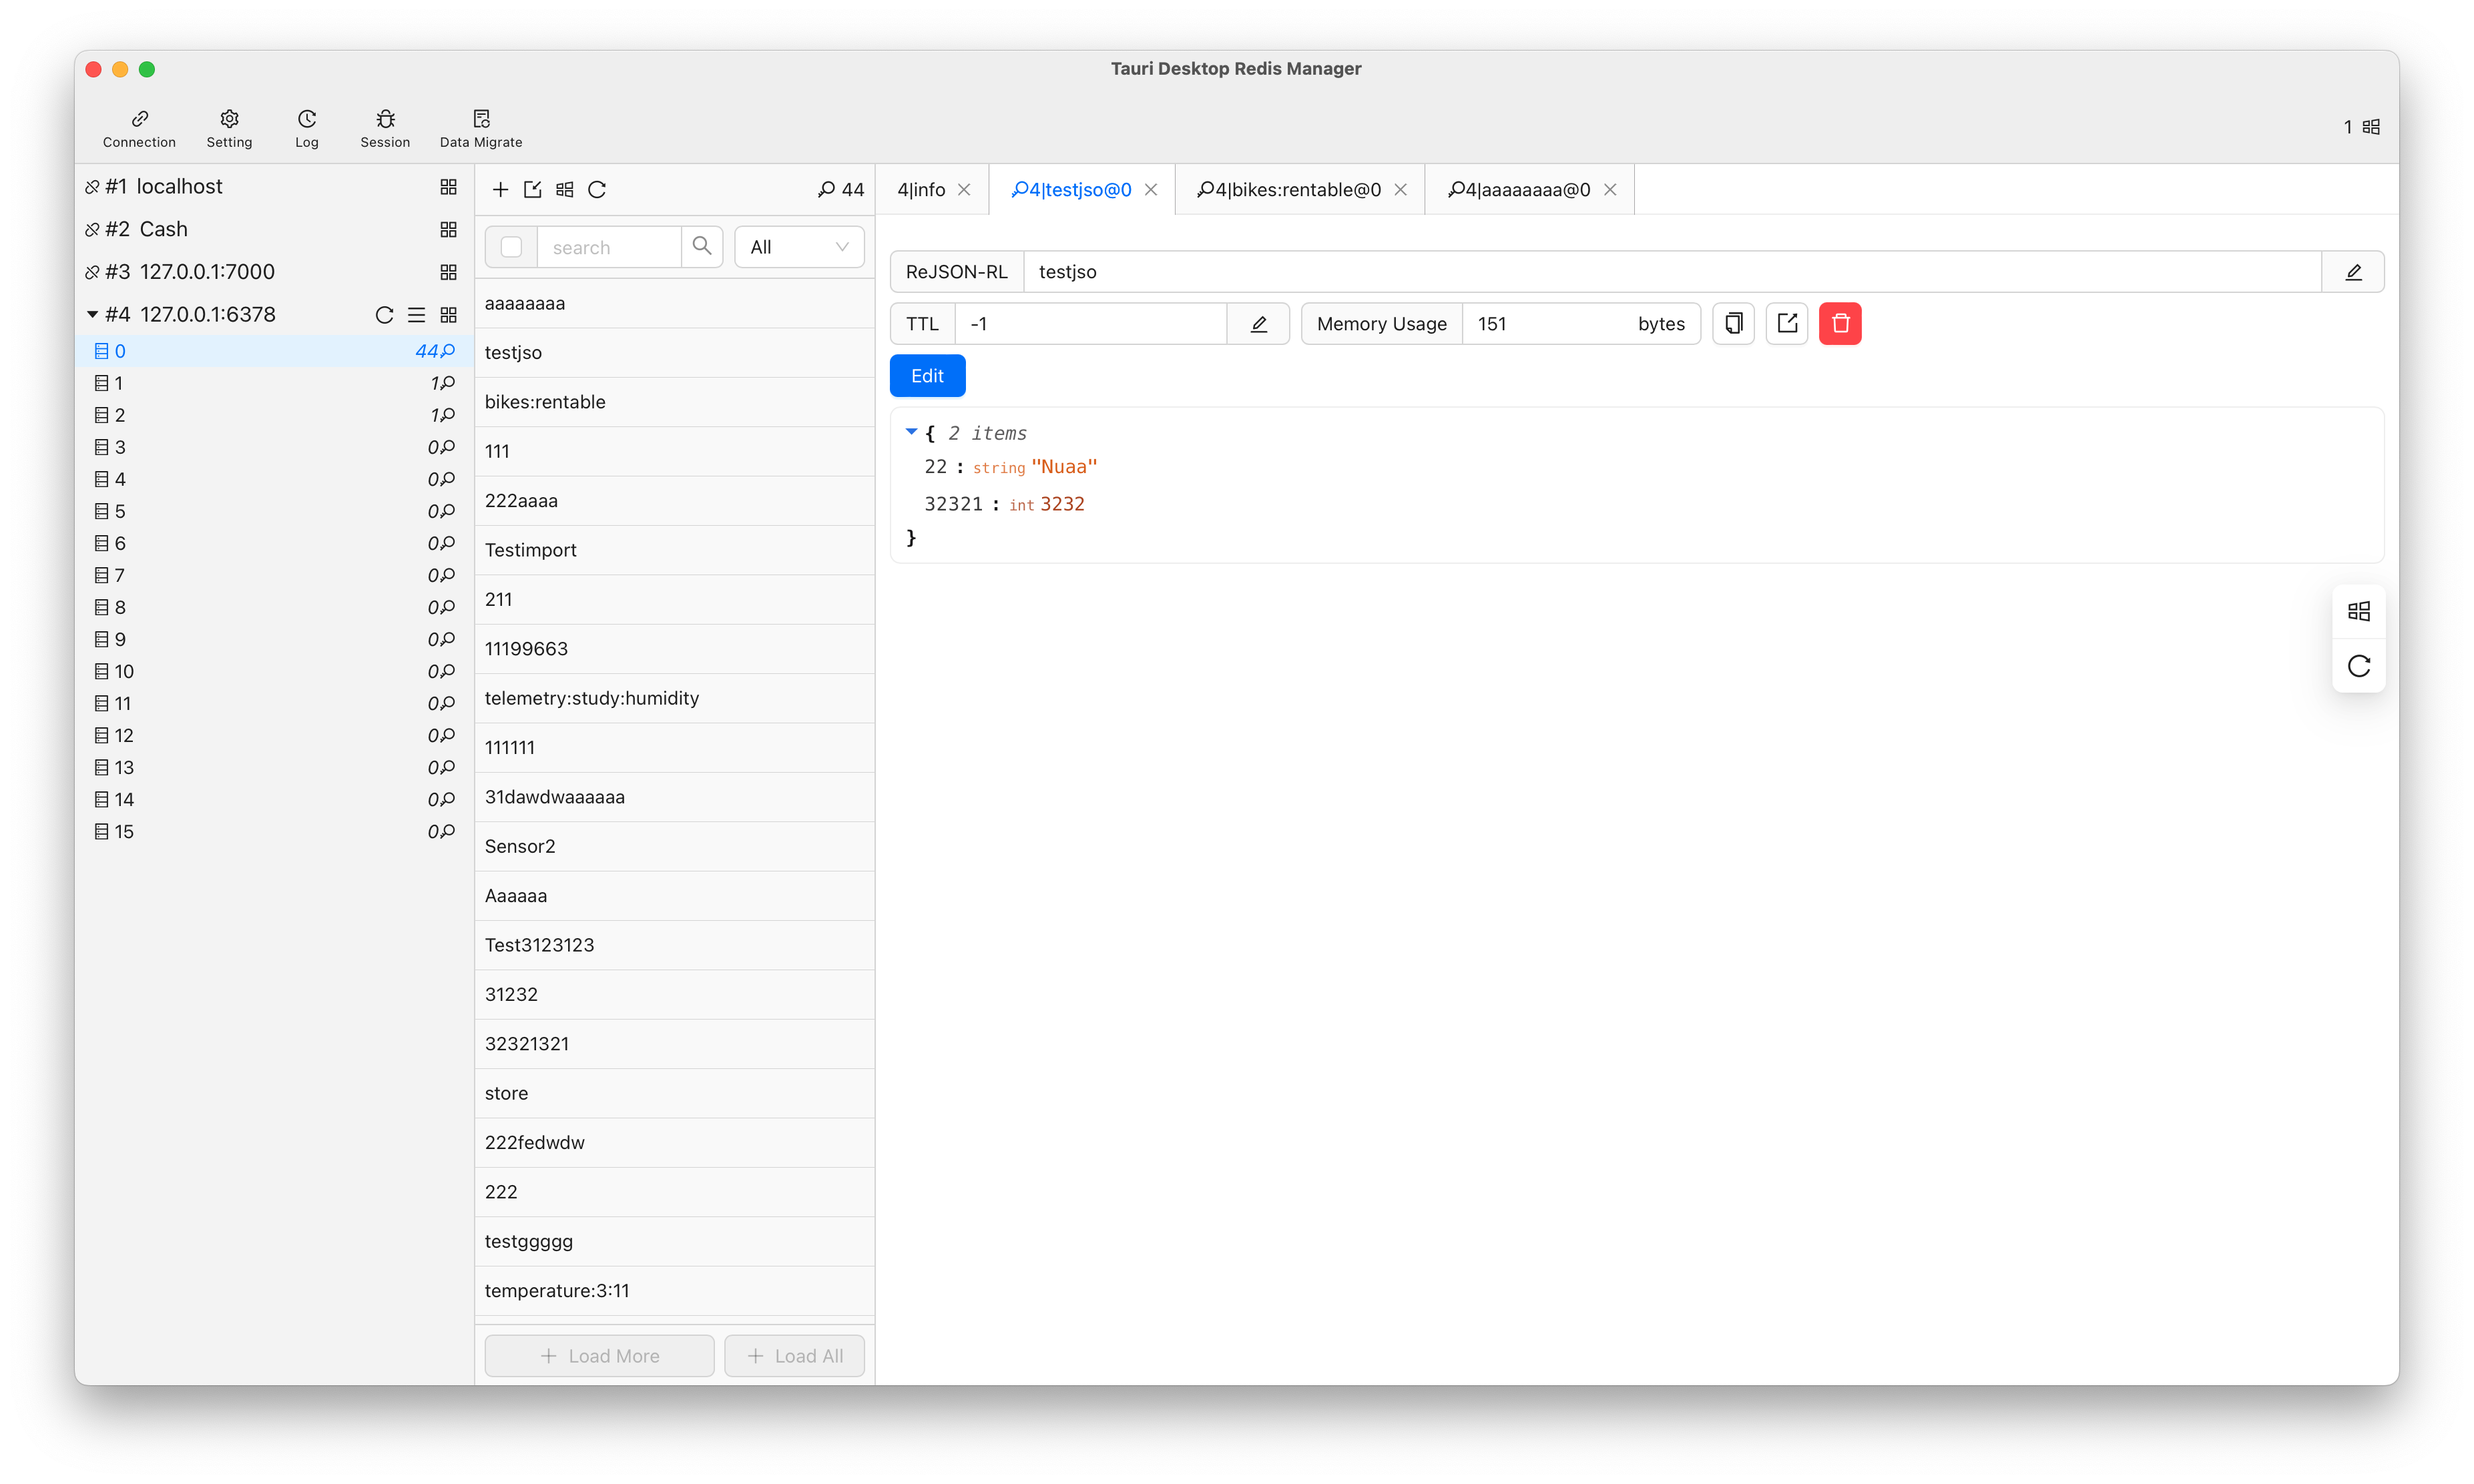
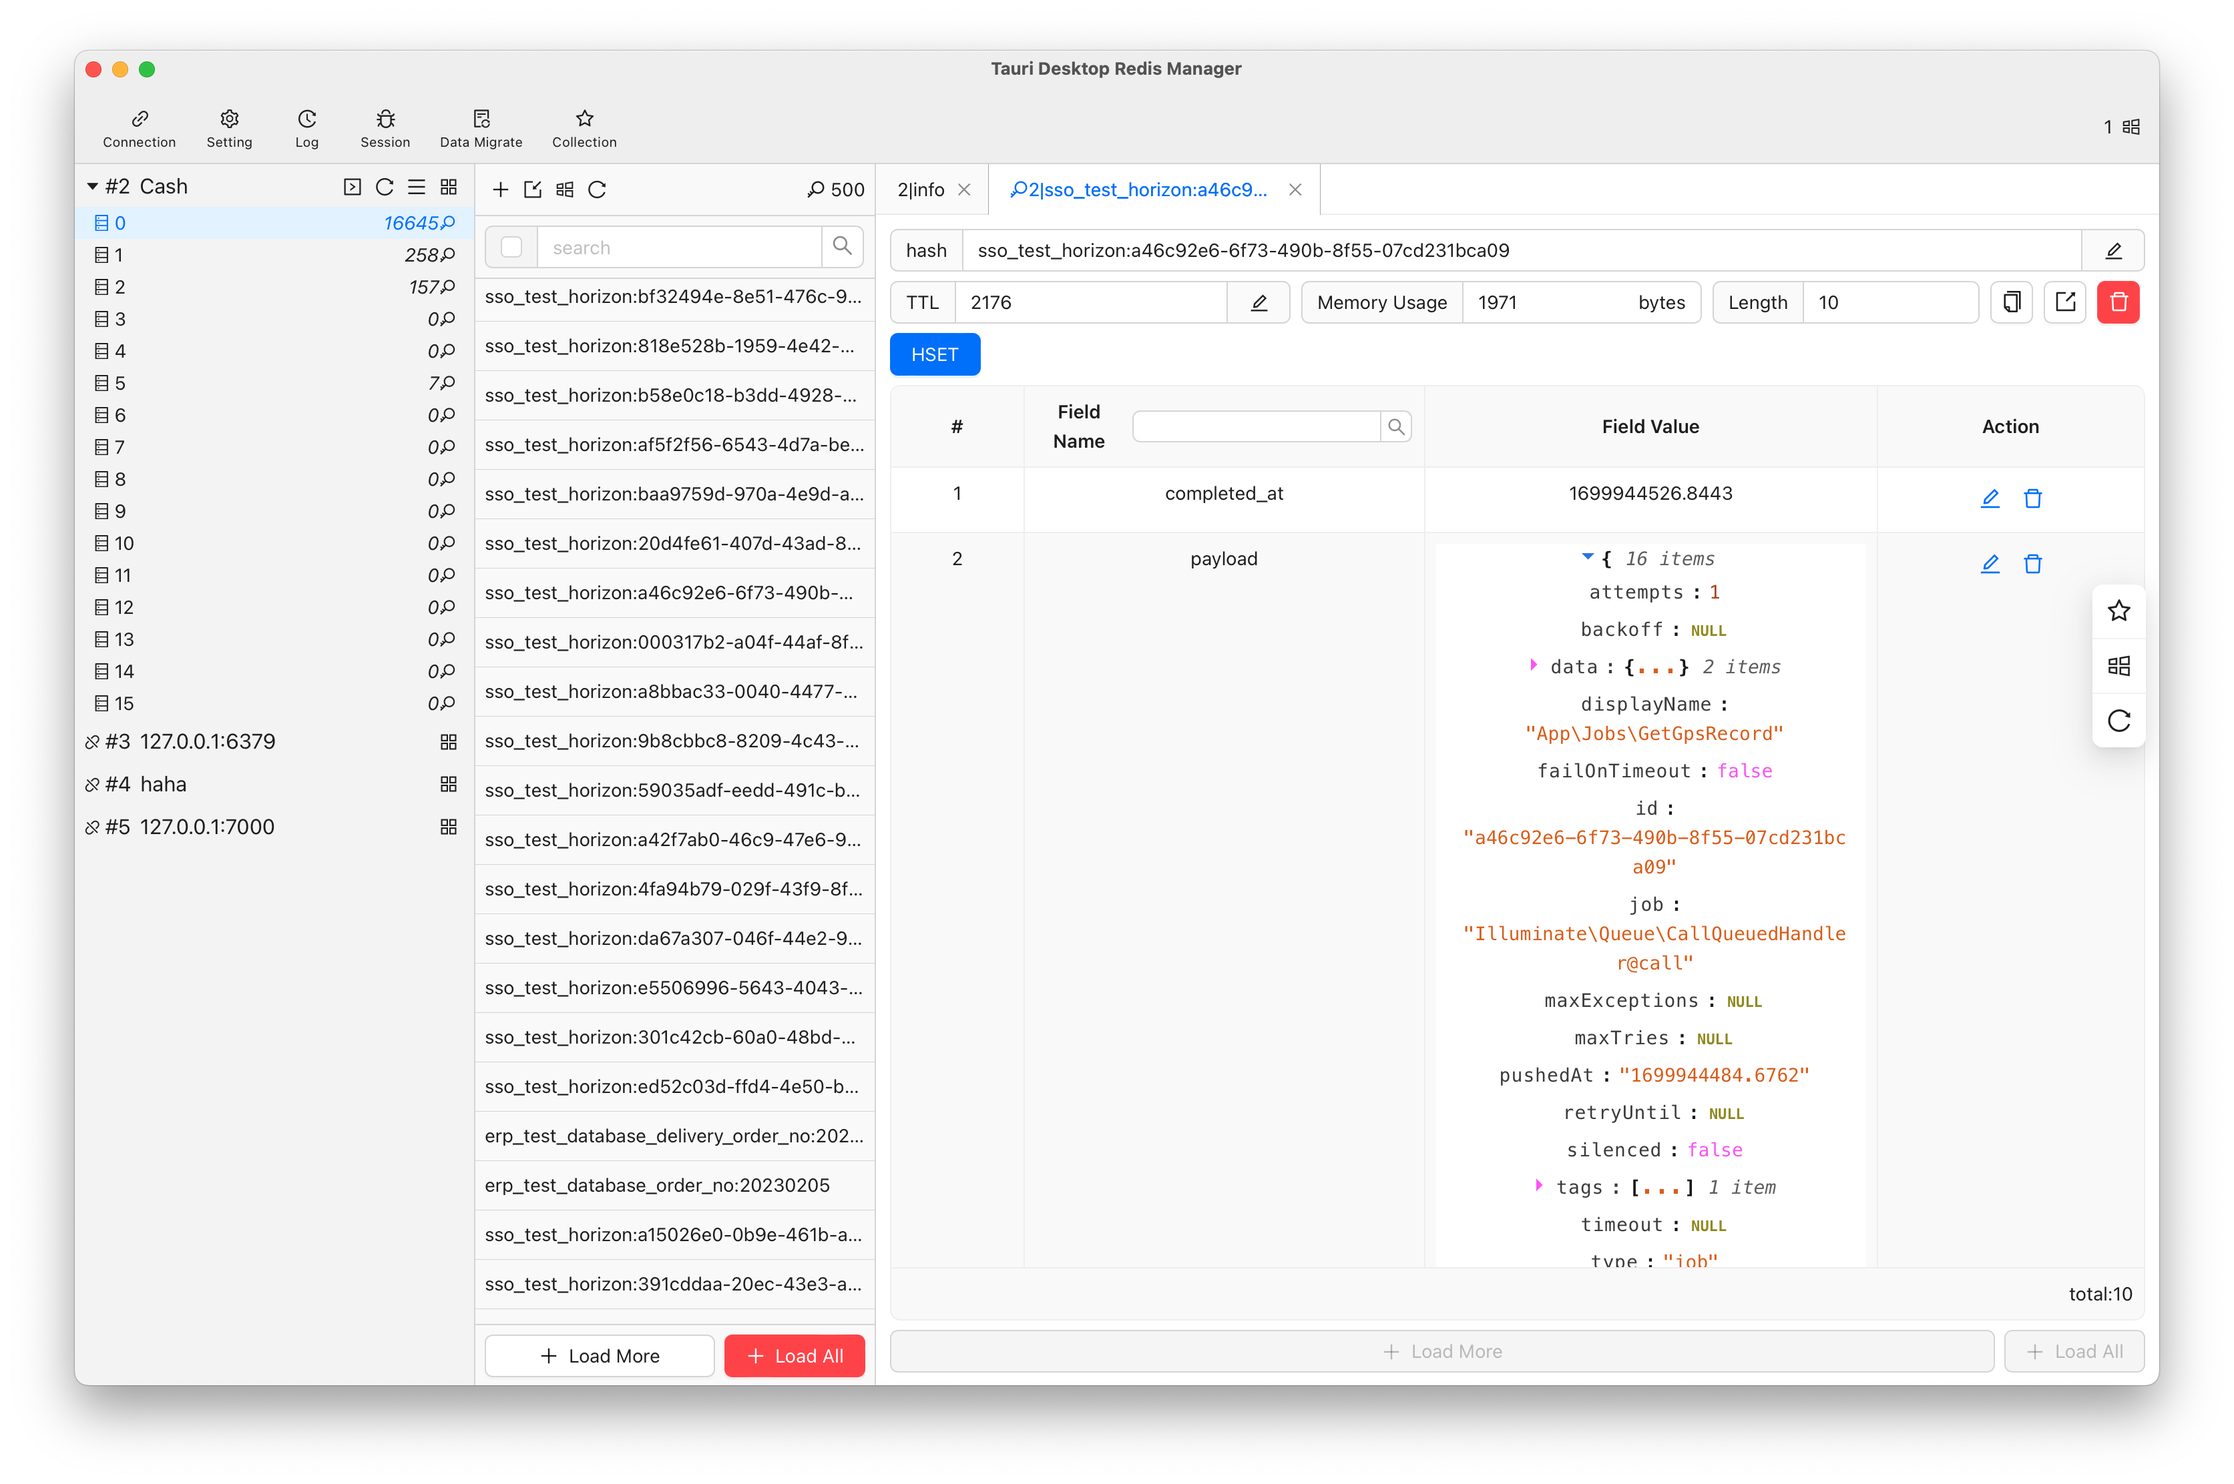
fixed bug

diff --git a/src/styles.less b/src/styles.less
@@ -5,10 +5,7 @@
   font-size: 14px;
   line-height: 24px;
   font-weight: 400;
-
   color: #0f0f0f;
-
-
   font-synthesis: none;
   text-rendering: optimizeLegibility;
   -webkit-font-smoothing: antialiased;
@@ -26,9 +23,10 @@ body,
   border-left: none !important;
   border-top: none !important;
   border-bottom: none !important;
-  border-color:  #B3B1B3 !important;
-  border-width: 0.5px !important;
 }
 .ant-tabs-nav-more{
   height: 30px !important;
+}
+textarea[class="variable-editor"]{
+  border-width: 1px;
 }

diff --git a/src/components/JsonView/index.tsx b/src/components/JsonView/index.tsx
@@ -8,9 +8,9 @@ const JsonView: React.FC<Omit<ReactJsonViewProps, 'theme'>> = (p) => {
 
   const theme = React.useMemo(() => {
     if (store.setting.setting.dark_mode) {
-      return 'summerfruit'
+      return 'shapeshifter'
     }
-    return 'summerfruit:inverted'
+    return 'shapeshifter:inverted'
   }, [store.setting.setting.dark_mode])
 
   return (

diff --git a/src/windows/database/App.tsx b/src/windows/database/App.tsx
@@ -45,7 +45,7 @@ const App: React.FC = () => {
     if (connection === undefined) {
       return <></>
     }
-    if (connection.nodes === undefined) {
+    if (connection.is_cluster && connection.nodes === undefined) {
       return <></>
     }
     return <Keys info={store.keyInfo.info}></Keys>

diff --git a/src-tauri/src/connection/conn.rs b/src-tauri/src/connection/conn.rs
@@ -205,8 +205,7 @@ impl ConnectionWrapper {
         let b: Box<dyn ConnectionLike + Send>;
         let params: ConnectionParams = model.get_params();
         let mut connection = Connection::new(params);
-        let cluster = connection.params.is_cluster;
-        if cluster {
+        if connection.params.is_cluster {
             b = Box::new(connection.get_cluster().await?)
         } else {
             b = Box::new(connection.get_normal().await?);
@@ -220,10 +219,6 @@ impl ConnectionWrapper {
             conn: b,
         };
         Ok(r)
-    }
-
-    pub fn get_proxy(&self) -> Option<String> {
-        self.model.get_proxy()
     }
 
     pub fn get_host(&self) -> String {

diff --git a/README.md b/README.md
@@ -2,39 +2,39 @@
 
 > A Redis Desktop Manager powered by Rust、Tauri、Vite、Typescript、React、Mobx、ant-design、tailwindcss with beautiful UI
 
-## Preview
-
-##### Ui
-![image](https://github.com/zjwshisb/tauri-redis-desktop-manager/blob/main/screen/preview-1.png?raw=true)
-
-##### Dark Mode
-![image](https://github.com/zjwshisb/tauri-redis-desktop-manager/blob/main/screen/preview-2.png?raw=true)
-
-##### Memory Analysis
-![image](https://github.com/zjwshisb/tauri-redis-desktop-manager/blob/main/screen/memory.png?raw=true)
-
-##### Migrate
-![image](https://github.com/zjwshisb/tauri-redis-desktop-manager/blob/main/screen/migrate.png?raw=true)
-
 ## Feature
 
-+ Cluster Mode Support
-+ SSH Proxy Support
++ Cluster Mode
 + Readonly Mode
-+ Use Scan、Sscan、Hscan、Zscan For Key、Field Iterate
-+ Publish/Subscribe command Support
-+ Monitor command Support
++ SSH Proxy
++ Scan、Sscan、Hscan、Zscan For Key/Field Paginate
++ Publish/Subscribe command
++ Monitor command
 + Key Memory Analysis  
-+ Multiwindow Support
++ Multiwindow
 + Debug Log
 + Data Migrate
-+ JSON Type Support
-+ Probabilistic data structures(TopK,HyperLogLog,Bloom filter,Count-min sketch,t-digest) Support
-+ Time series Support
++ JSON Type
++ Probabilistic data structures(TopK,HyperLogLog,Bloom filter,Count-min sketch,t-digest)
++ Time Series structures
 + Dark Mode
++ Terminal
 
+## Preview
 
-## Devlopment
+UI
+![image](https://github.com/zjwshisb/tauri-redis-desktop-manager/blob/main/screen/preview-1.png?raw=true)
+
+Dark Mode
+![image](https://github.com/zjwshisb/tauri-redis-desktop-manager/blob/main/screen/preview-2.png?raw=true)
+
+Memory Analysis
+![image](https://github.com/zjwshisb/tauri-redis-desktop-manager/blob/main/screen/memory.png?raw=true)
+
+Migrate
+![image](https://github.com/zjwshisb/tauri-redis-desktop-manager/blob/main/screen/migrate.png?raw=true)
+
+## Development
 
 + Backend [Tauri](https://tauri.app/v1/guides/development/development-cycle/)
 + Frontend [Vite](https://vitejs.dev/)
